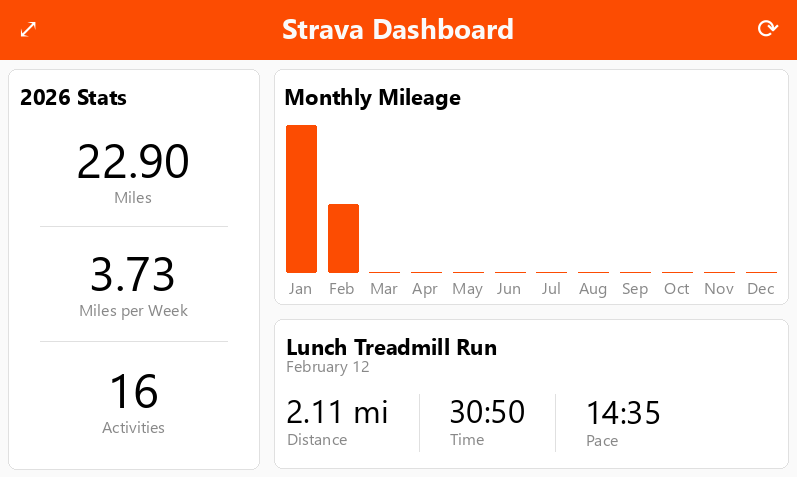
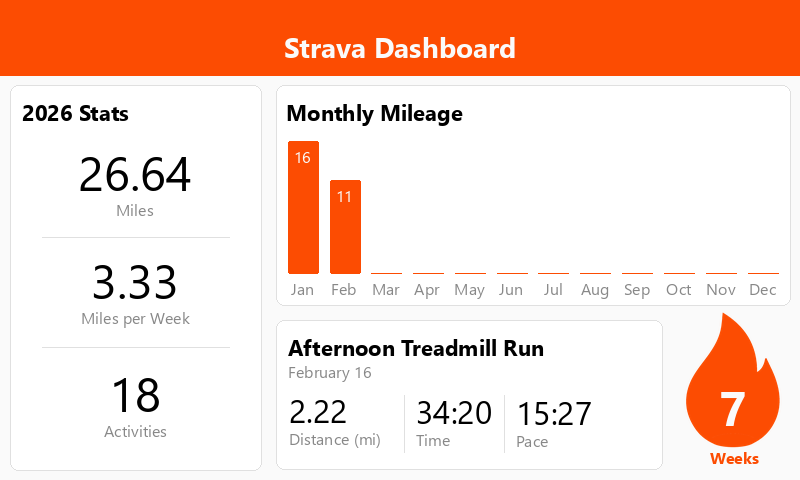
feat: add streak

diff --git a/src/display.py b/src/display.py
@@ -12,6 +12,8 @@ ASSETS_DIR = os.path.join(SCRIPT_DIR, "..", "assets")
 # Fonts and colors
 # =========================
 HEADER_FONT = ImageFont.truetype(os.path.join(ASSETS_DIR, "segoeuib.ttf"), 28)
+STREAK_FONT = ImageFont.truetype(os.path.join(ASSETS_DIR, "segoeuib.ttf"), 48)
+STREAK_LABEL_FONT = ImageFont.truetype(os.path.join(ASSETS_DIR, "segoeuib.ttf"), 16)
 YEAR_METRIC_VALUE_FONT = ImageFont.truetype(os.path.join(ASSETS_DIR, "segoeui.ttf"), 48)
 LABEL_FONT = ImageFont.truetype(os.path.join(ASSETS_DIR, "segoeui.ttf"), 16)
 LATEST_TITLE_FONT = ImageFont.truetype(os.path.join(ASSETS_DIR, "segoeuib.ttf"), 22)
@@ -297,6 +299,80 @@ def draw_monthly_graph(
 # =========================
 # Latest Activity Card
 # =========================
+def colorize_icon(icon: Image.Image, hex_color: str) -> Image.Image:
+    """Recolor a black-on-transparent icon to the given hex color."""
+    r = int(hex_color[1:3], 16)
+    g = int(hex_color[3:5], 16)
+    b = int(hex_color[5:7], 16)
+    icon = icon.convert("RGBA")
+    pixels = icon.load()
+    for y in range(icon.height):
+        for x in range(icon.width):
+            pr, pg, pb, pa = pixels[x, y]
+            # Treat darkness as the mask — black pixels become accent color
+            brightness = (pr + pg + pb) / 3
+            alpha = int((1 - brightness / 255) * pa)
+            pixels[x, y] = (r, g, b, alpha)
+    return icon
+
+
+def draw_streak_card(
+    draw: ImageDraw.Draw,
+    img: Image.Image,
+    streak: int,
+    left_width: int,
+    width: int,
+    top_offset: int,
+):
+    right_area_width = width - MARGIN_RIGHT - (left_width + MARGIN_LEFT)
+    quarter_width = right_area_width // 4
+
+    area_x0 = width - MARGIN_RIGHT - quarter_width + CARD_SPACING
+    area_y0 = top_offset + CARD_SPACING
+    area_x1 = width - MARGIN_RIGHT
+    area_y1 = area_y0 + 149  # same bottom as latest activity card
+    area_w = area_x1 - area_x0
+    area_h = area_y1 - area_y0
+
+    # Measure label and anchor it to the bottom of the area
+    label_text = "Weeks"
+    label_bbox = draw.textbbox((0, 0), label_text, font=LABEL_FONT)
+    label_w = label_bbox[2] - label_bbox[0]
+    label_h = label_bbox[3] - label_bbox[1]
+    label_padding = 6
+    label_y = area_y1 - label_h - label_bbox[1] - 5
+
+    # Flame occupies the space above the label
+    flame_y0 = area_y0
+    flame_y1 = label_y - label_padding
+    flame_h = flame_y1 - flame_y0
+
+    # Load, colorize, and scale fire to fit the flame zone
+    fire_raw = Image.open(os.path.join(ASSETS_DIR, "fire.png")).convert("RGBA")
+    fire_colored = colorize_icon(fire_raw, ACCENT_COLOR)
+    scale = min(area_w / fire_colored.width, flame_h / fire_colored.height) * 2
+    fire_w = int(fire_colored.width * scale)
+    fire_h = int(fire_colored.height * scale)
+    fire_resized = fire_colored.resize((fire_w, fire_h), Image.Resampling.LANCZOS)
+
+    fire_x = area_x0 + (area_w - fire_w) // 2
+    fire_y = flame_y0 + (flame_h - fire_h) // 2
+    img.paste(fire_resized, (fire_x, fire_y), fire_resized)
+
+    # Draw streak number in the bottom third of the flame
+    streak_text = str(streak)
+    streak_bbox = draw.textbbox((0, 0), streak_text, font=STREAK_FONT)
+    streak_w = streak_bbox[2] - streak_bbox[0]
+    streak_h = streak_bbox[3] - streak_bbox[1]
+    text_x = area_x0 + (area_w - streak_w) // 2 - streak_bbox[0]
+    text_y = area_y0 + (area_h - streak_h) // 2 - streak_bbox[1] + 15 
+    draw.text((text_x, text_y), streak_text, font=STREAK_FONT, fill=BG_COLOR)
+
+    # "Weeks" label anchored to bottom of area, centered, in accent color
+    label_x = area_x0 + (area_w - label_w) // 2 - label_bbox[0]
+    draw.text((label_x, label_y), label_text, font=STREAK_LABEL_FONT, fill=ACCENT_COLOR)
+
+
 def draw_latest_activity(
     draw: ImageDraw.Draw,
     latest_activity: Dict,
@@ -304,10 +380,13 @@ def draw_latest_activity(
     width: int,
     top_offset: int,
 ):
-    # Card coordinates
+    right_area_width = width - MARGIN_RIGHT - (left_width + MARGIN_LEFT)
+    quarter_width = right_area_width // 4
+
+    # Card coordinates — 75% of the right column width
     card_x0 = left_width + MARGIN_LEFT
     card_y0 = top_offset + CARD_SPACING
-    card_x1 = width - MARGIN_RIGHT
+    card_x1 = width - MARGIN_RIGHT - quarter_width
     card_y1 = card_y0 + 149  # make this shorter, adjust as needed
     draw_card(draw, card_x0, card_y0, card_x1, card_y1)
 
@@ -331,7 +410,7 @@ def draw_latest_activity(
 
     # Metrics (Distance, Time, Pace)
     metrics = [
-        ("Distance", f"{latest_activity.get('miles', 0):.2f} mi"),
+        ("Distance (mi)", f"{latest_activity.get('miles', 0):.2f}"),
         ("Time", latest_activity.get("time", "0:00")),
         ("Pace", latest_activity.get("pace", "0:00")),
     ]
@@ -342,28 +421,18 @@ def draw_latest_activity(
     panel_bottom = inner_y1
     panel_height = panel_bottom - panel_top
 
-    # Size all sections to the widest block so they're uniform
-    max_block_width = 0
+    # Compute each section's width based on its own content
+    section_widths = []
     for label, value in metrics:
         value_text = f"{value:.2f}" if isinstance(value, (int, float)) else str(value)
         value_bbox = draw.textbbox((0, 0), value_text, font=METRIC_VALUE_FONT)
         label_bbox = draw.textbbox((0, 0), label, font=LABEL_FONT)
-        block_width = max(value_bbox[2] - value_bbox[0], label_bbox[2] - label_bbox[0])
-        max_block_width = max(max_block_width, block_width)
-    section_width = max_block_width + section_padding * 2
+        content_width = max(value_bbox[2] - value_bbox[0], label_bbox[2] - label_bbox[0])
+        section_widths.append(content_width + section_padding * 2)
 
-    # Draw vertical dividers at section boundaries
-    for i in range(1, len(metrics)):
-        div_x = inner_x0 + i * section_width
-        draw.line(
-            [(div_x, panel_top + 30), (div_x, panel_bottom - 5)],
-            fill=BORDER_COLOR,
-            width=1,
-        )
-
+    # Draw content and dividers, advancing x_cursor by each section's own width
+    x_cursor = inner_x0
     for i, (label, value) in enumerate(metrics):
-        # First section aligns with card inner edge, rest align just after their divider
-        x = inner_x0 + i * section_width + (section_padding if i > 0 else 1)
         value_text = f"{value:.2f}" if isinstance(value, (int, float)) else str(value)
         value_bbox = draw.textbbox((0, 0), value_text, font=METRIC_VALUE_FONT)
         label_bbox = draw.textbbox((0, 0), label, font=LABEL_FONT)
@@ -371,6 +440,8 @@ def draw_latest_activity(
         label_h = label_bbox[3] - label_bbox[1]
         block_height = value_h + vertical_padding + label_h
         y_top = panel_top + (panel_height - block_height) // 2
+
+        x = x_cursor + (section_padding if i > 0 else 1)
         draw.text((x, y_top), value_text, font=METRIC_VALUE_FONT, fill=TEXT_COLOR)
         draw.text(
             (x, y_top + value_h + vertical_padding + 8),
@@ -378,6 +449,16 @@ def draw_latest_activity(
             font=LABEL_FONT,
             fill=LABEL_COLOR,
         )
+
+        x_cursor += section_widths[i]
+
+        # Draw divider after this section (except the last)
+        if i < len(metrics) - 1:
+            draw.line(
+                [(x_cursor, panel_top + 30), (x_cursor, panel_bottom - 5)],
+                fill=BORDER_COLOR,
+                width=1,
+            )
 
 
 # =========================
@@ -389,6 +470,7 @@ def render(
     activities: int,
     mileage_per_month: List[int],
     latest_activity: Dict,
+    streak: int = 0,
     color="",
     dark_mode=False,
 ) -> PILImage:
@@ -426,6 +508,7 @@ def render(
     draw_latest_activity(
         draw, latest_activity, left_width, WIDTH, top_offset=graph_bottom
     )
+    draw_streak_card(draw, img, streak, left_width, WIDTH, top_offset=graph_bottom)
 
     return img
 

diff --git a/src/main.py b/src/main.py
@@ -14,6 +14,8 @@ from display import (
 )
 from data import (
     get_yearly_strava_activities,
+    get_all_strava_activities,
+    calculate_streak,
     parse_latest_activity,
     parse_yearly_data,
 )
@@ -25,6 +27,8 @@ SLEEP_MODE_END = 6
 REFRESH_TIME = 15 * 60 * 1000
 
 activities_cache = []
+streak_cache = None
+was_sleeping = True
 tk_root = None
 tk_label = None
 tk_photo = None
@@ -68,6 +72,15 @@ def parse_args() -> argparse.Namespace:
     return parser.parse_args()
 
 
+def fetch_and_update_streak():
+    global streak_cache
+    try:
+        all_activities = get_all_strava_activities()
+        streak_cache = calculate_streak(all_activities)
+    except (RuntimeError, RequestException) as e:
+        print(f"Failed to fetch streak: {e}")
+
+
 def fetch_and_parse_activities():
     global activities_cache
     try:
@@ -90,6 +103,14 @@ def fetch_and_parse_activities():
 
 
 def generate_image():
+    global was_sleeping
+
+    # We generate the streak once a day for performance and rate limiting reasons
+    # So it generates the streak right after it wakes up from sleep mode
+    if was_sleeping:
+        was_sleeping = False
+        fetch_and_update_streak()
+
     (
         total_activities,
         total_mileage,
@@ -97,15 +118,18 @@ def generate_image():
         mileage_per_month,
         latest_activity,
     ) = fetch_and_parse_activities()
+
     img = render(
         total_mileage,
         avg_weekly_mileage,
         total_activities,
         mileage_per_month,
         latest_activity,
+        streak_cache or 0,
         args.color,
         args.darkmode,
     )
+
     return img
 
 
@@ -172,9 +196,10 @@ def update_button_position(event=None) -> None:
 
 
 def update_dashboard() -> None:
-    global tk_root, tk_label, tk_photo, refresh_btn, fullscreen_btn
+    global tk_root, tk_label, tk_photo, refresh_btn, fullscreen_btn, was_sleeping
 
     if is_sleep_mode():
+        was_sleeping = True
         img = render_sleep_mode()
         refresh_btn.place_forget()
         fullscreen_btn.place_forget()

diff --git a/src/data.py b/src/data.py
@@ -3,7 +3,7 @@ import logging
 from dotenv import load_dotenv
 from stravalib.client import Client
 from stravalib.model import SummaryActivity
-from datetime import datetime
+from datetime import datetime, timedelta
 from typing import Tuple
 
 logging.getLogger("stravalib").setLevel(logging.ERROR)
@@ -26,6 +26,48 @@ def calculate_pace(meters: int, seconds: int) -> int:
     miles = meters_to_miles(meters)
     seconds_per_mile = seconds / miles
     return round(seconds_per_mile)
+
+
+def calculate_streak(activities: list[SummaryActivity]) -> int:
+    if not activities:
+        return 0
+
+    def week_start(date: datetime) -> datetime:
+        # Strip tzinfo so everything is naive local-equivalent
+        date = date.replace(tzinfo=None)
+        return (date - timedelta(days=date.weekday())).replace(
+            hour=0, minute=0, second=0, microsecond=0
+        )
+
+    active_weeks = set(week_start(a.start_date) for a in activities)
+
+    current_week = week_start(datetime.now())
+
+    if current_week not in active_weeks:
+        current_week -= timedelta(weeks=1)
+
+    streak = 0
+    while current_week in active_weeks:
+        streak += 1
+        current_week -= timedelta(weeks=1)  
+    return streak
+
+
+def get_all_strava_activities() -> list[SummaryActivity]:
+    load_dotenv()
+    STRAVA_CLIENT_ID = os.getenv("STRAVA_CLIENT_ID")
+    STRAVA_CLIENT_SECRET = os.getenv("STRAVA_CLIENT_SECRET")
+    STRAVA_REFRESH_TOKEN = os.getenv("STRAVA_REFRESH_TOKEN")
+
+    client = Client()
+    tokens = client.refresh_access_token(
+        client_id=STRAVA_CLIENT_ID,
+        client_secret=STRAVA_CLIENT_SECRET,
+        refresh_token=STRAVA_REFRESH_TOKEN,
+    )
+    client.access_token = tokens["access_token"]
+
+    return list(client.get_activities())
 
 
 def get_yearly_strava_activities() -> list[SummaryActivity]:

diff --git a/README.md b/README.md
@@ -7,7 +7,7 @@ A Strava Dashboard I use on my Raspberry Pi frame. This code is not Raspbery Pi 
 ## Features
 
 - Strava API Integration
-- Yearly stats, monthly mileage, and the latest run
+- Yearly stats, monthly mileage, the latest run, and current streak
 - Dark Mode and Custom Accent Colors
 - Auto Sleep
 
